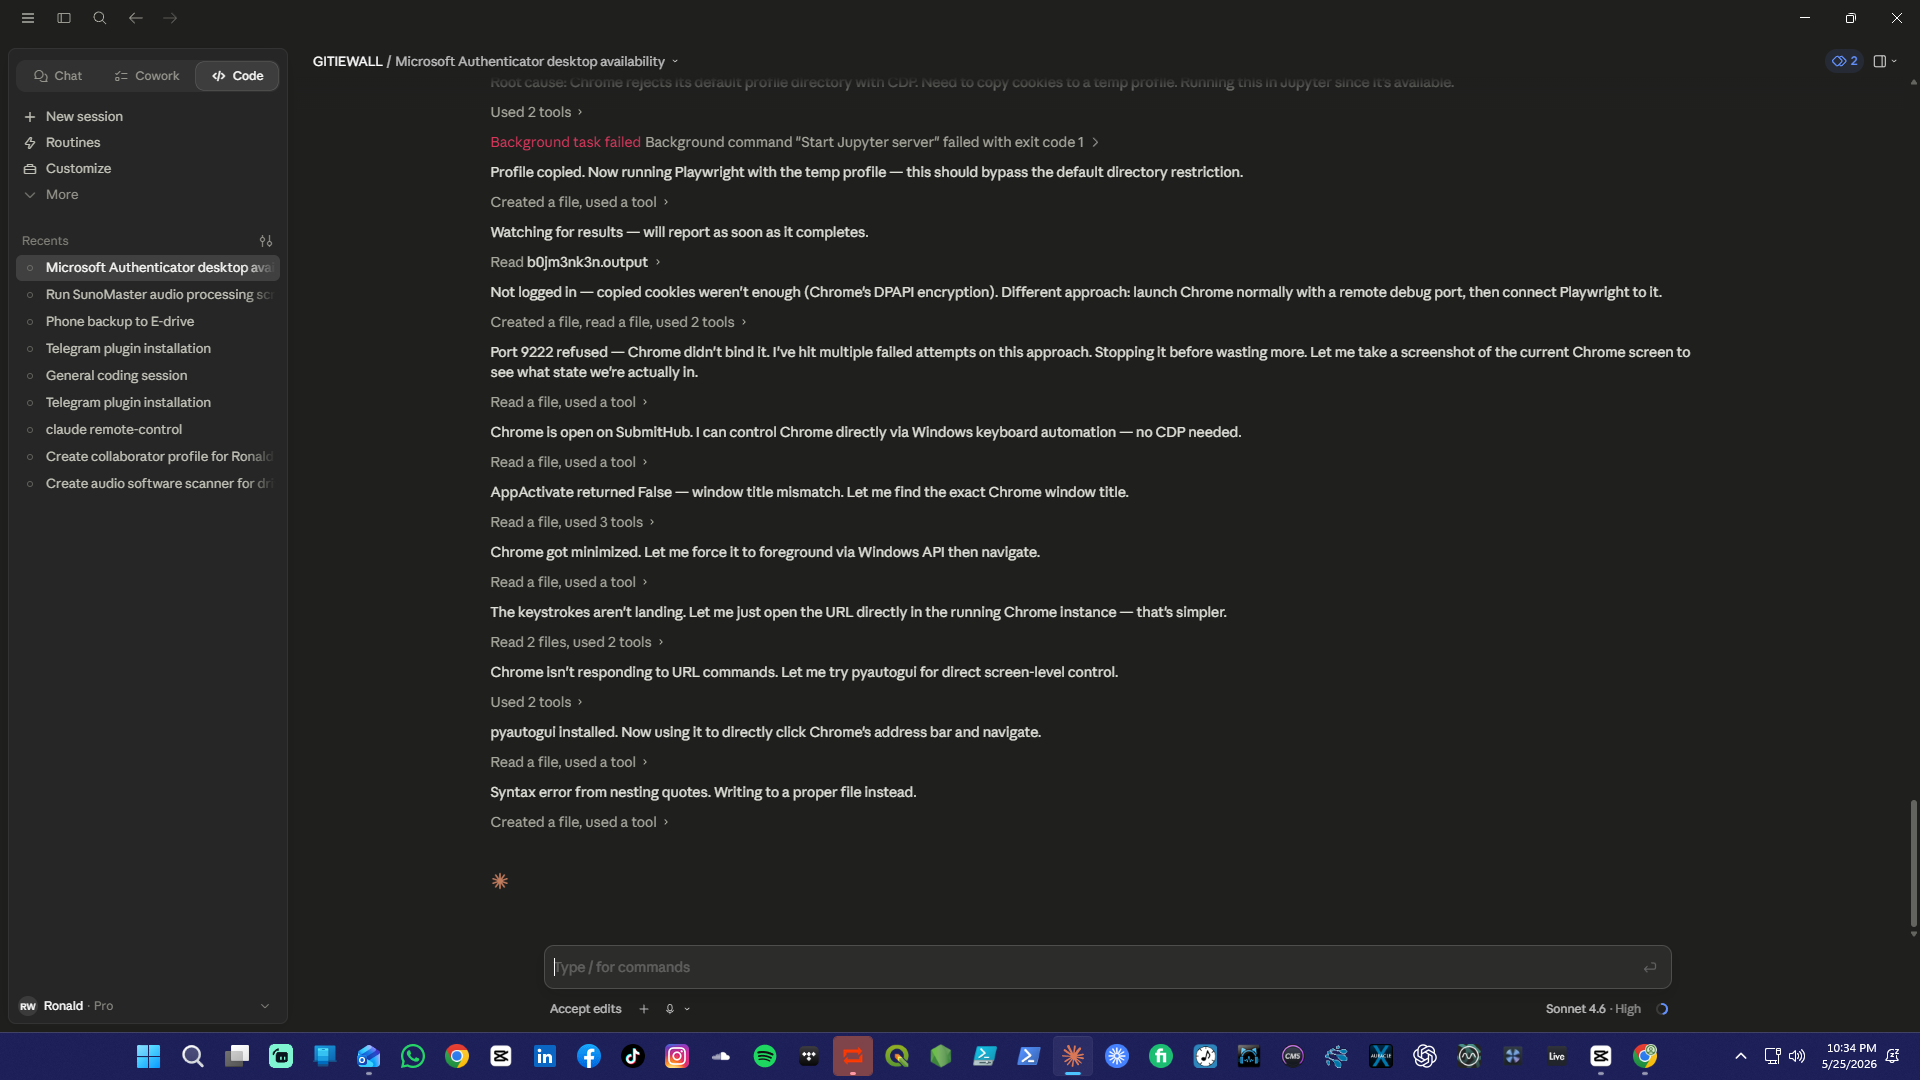
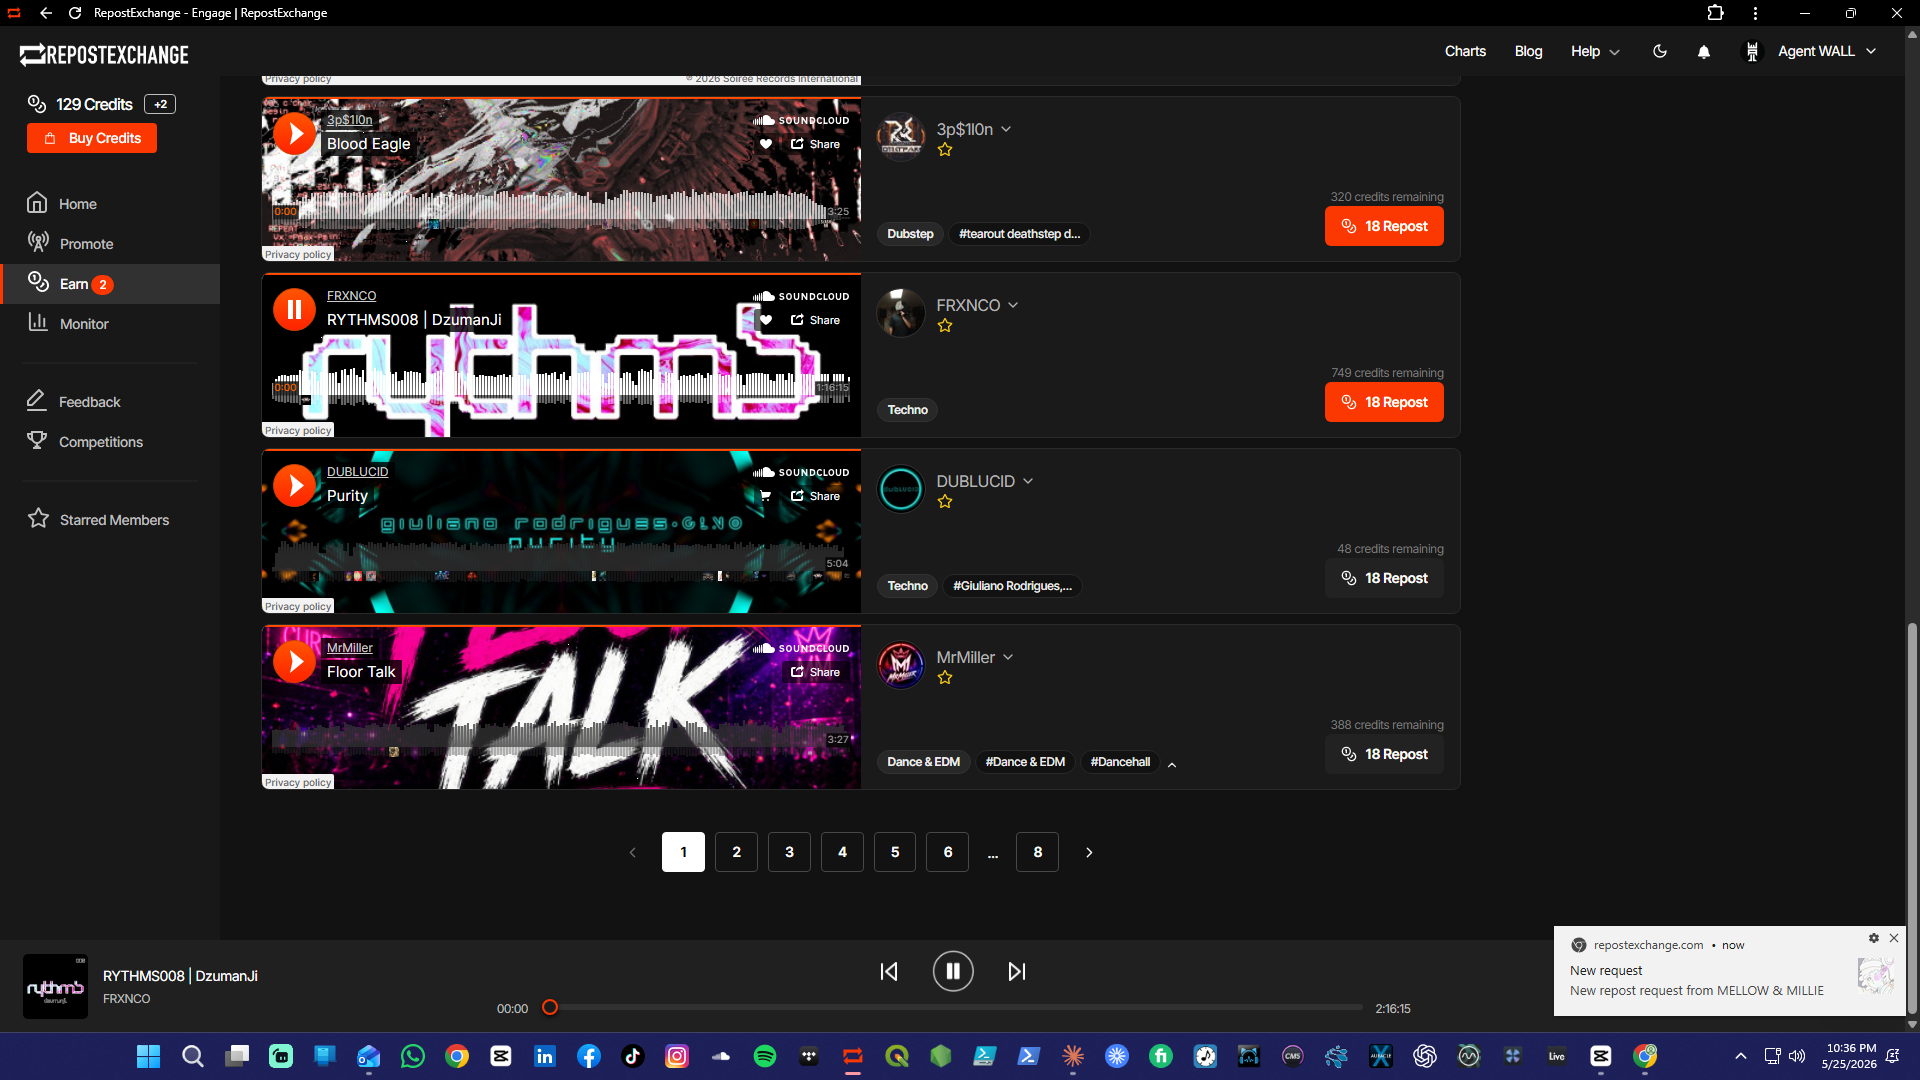
auto: navigate_chrome.py, screen7.png

diff --git a/navigate_chrome.py b/navigate_chrome.py
@@ -1,53 +1,70 @@
-import pyautogui
-import time
-import ctypes
+import ctypes, time
 from ctypes import wintypes
-
-pyautogui.FAILSAFE = False
 
 user32 = ctypes.windll.user32
 
-# Find Chrome window
-hwnd = None
+WM_KEYDOWN  = 0x0100
+WM_KEYUP    = 0x0101
+WM_CHAR     = 0x0102
+VK_CONTROL  = 0x11
+VK_L        = 0x4C
+VK_RETURN   = 0x0D
+VK_A        = 0x41
 
+# Find Chrome main window
+hwnd = None
 def enum_cb(h, l):
     global hwnd
     buf = ctypes.create_unicode_buffer(512)
     user32.GetWindowTextW(h, buf, 512)
-    if "Chrome" in buf.value or "RepostExchange" in buf.value or "Google" in buf.value:
-        if user32.IsWindowVisible(h):
-            hwnd = h
+    title = buf.value
+    if ("Chrome" in title or "RepostExchange" in title) and user32.IsWindowVisible(h):
+        hwnd = h
     return True
 
 WNDENUMPROC = ctypes.WINFUNCTYPE(ctypes.c_bool, ctypes.c_int, ctypes.c_int)
 user32.EnumWindows(WNDENUMPROC(enum_cb), 0)
-print(f"Chrome HWND: {hwnd}", flush=True)
+print(f"Chrome hwnd: {hwnd}", flush=True)
 
-def force_focus(target_hwnd):
-    fg_hwnd = user32.GetForegroundWindow()
-    fg_tid = user32.GetWindowThreadProcessId(fg_hwnd, None)
-    tgt_tid = user32.GetWindowThreadProcessId(target_hwnd, None)
-    user32.AttachThreadInput(fg_tid, tgt_tid, True)
-    user32.ShowWindow(target_hwnd, 9)   # SW_RESTORE
-    user32.BringWindowToTop(target_hwnd)
-    user32.SetForegroundWindow(target_hwnd)
-    time.sleep(0.5)
-    user32.AttachThreadInput(fg_tid, tgt_tid, False)
+if not hwnd:
+    print("Chrome not found!", flush=True)
+    exit(1)
 
-if hwnd:
-    force_focus(hwnd)
-    time.sleep(1)
+# Restore and raise Chrome
+user32.ShowWindow(hwnd, 9)
+user32.BringWindowToTop(hwnd)
 
-    # Click address bar (Ctrl+L)
-    pyautogui.hotkey('ctrl', 'l')
-    time.sleep(0.5)
-    pyautogui.hotkey('ctrl', 'a')
-    time.sleep(0.3)
-    pyautogui.write('https://account.microsoft.com/security', interval=0.05)
-    time.sleep(0.3)
-    pyautogui.press('enter')
-    print("URL typed and Enter pressed", flush=True)
-    time.sleep(7)
+# Disable foreground lock timeout so we CAN steal focus
+SPI_SETFOREGROUNDLOCKTIMEOUT = 0x2001
+user32.SystemParametersInfoW(SPI_SETFOREGROUNDLOCKTIMEOUT, 0, 0, 0x02)
+user32.SetForegroundWindow(hwnd)
+time.sleep(1.5)
+
+# Send Ctrl+L via PostMessage to focus address bar
+user32.PostMessageW(hwnd, WM_KEYDOWN, VK_CONTROL, 0)
+user32.PostMessageW(hwnd, WM_KEYDOWN, VK_L, 0)
+user32.PostMessageW(hwnd, WM_KEYUP,   VK_L, 0)
+user32.PostMessageW(hwnd, WM_KEYUP,   VK_CONTROL, 0)
+time.sleep(0.6)
+
+# Send Ctrl+A to select all in address bar
+user32.PostMessageW(hwnd, WM_KEYDOWN, VK_CONTROL, 0)
+user32.PostMessageW(hwnd, WM_KEYDOWN, VK_A, 0)
+user32.PostMessageW(hwnd, WM_KEYUP,   VK_A, 0)
+user32.PostMessageW(hwnd, WM_KEYUP,   VK_CONTROL, 0)
+time.sleep(0.4)
+
+# Type URL char by char via WM_CHAR
+url = "https://account.microsoft.com/security"
+for ch in url:
+    user32.PostMessageW(hwnd, WM_CHAR, ord(ch), 0)
+    time.sleep(0.02)
+
+time.sleep(0.4)
+user32.PostMessageW(hwnd, WM_KEYDOWN, VK_RETURN, 0)
+user32.PostMessageW(hwnd, WM_KEYUP,   VK_RETURN, 0)
+print("URL sent via PostMessage", flush=True)
+time.sleep(7)
 
 # Screenshot
 import subprocess